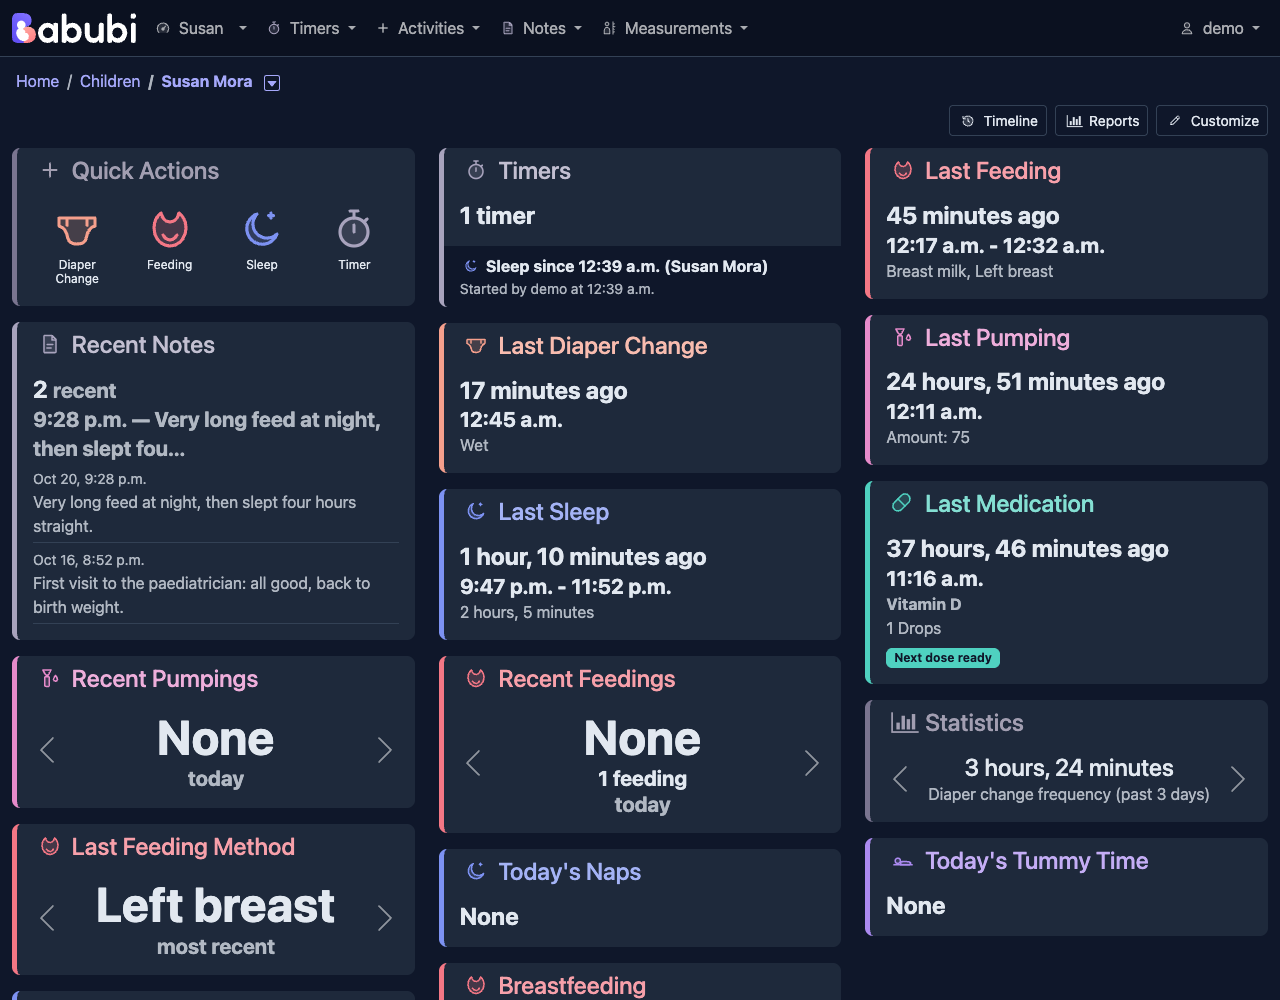
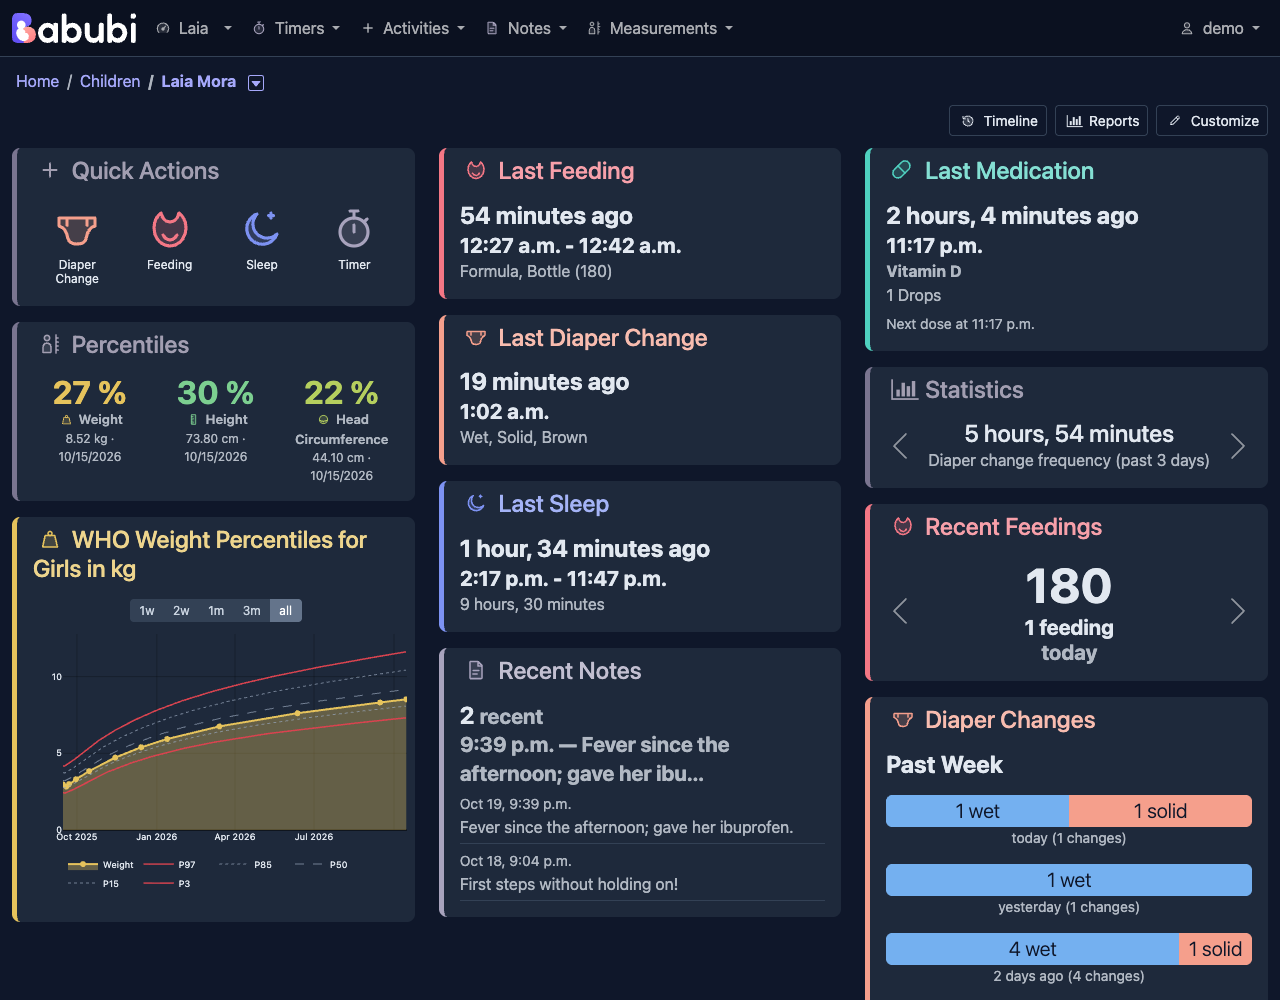
docs: dashboard screenshot with percentiles and a WHO graph card
The desktop screenshot now shows an older child's dashboard arranged
with the percentiles card and the WHO weight percentiles graph card,
which the first one left below the fold; the phone strip shows the
diaper changes list in place of the sleep one.

diff --git a/README.md b/README.md
@@ -12,7 +12,7 @@ Babubi is a fork of [Baby Buddy](https://github.com/babybuddy/babybuddy). It sta
 
 ![A child's dashboard on the desktop, in the dark theme](screenshot.png)
 
-![On a phone, in the light theme: the dashboard, the sleep list grouped by day and a running timer](screenshot_mobile.png)
+![On a phone, in the light theme: the dashboard, the diaper changes grouped by day and a running timer](screenshot_mobile.png)
 
 ## How Babubi differs from Baby Buddy
 
